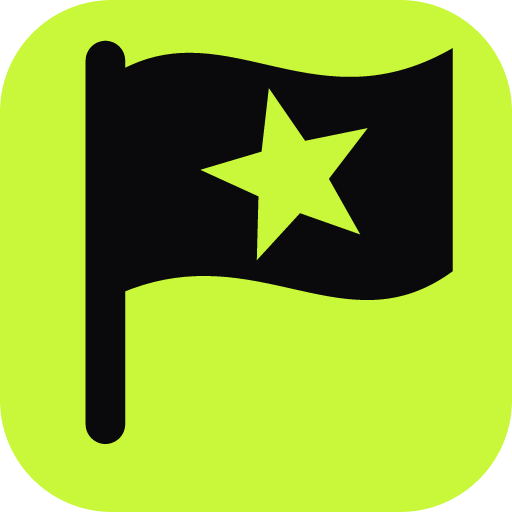
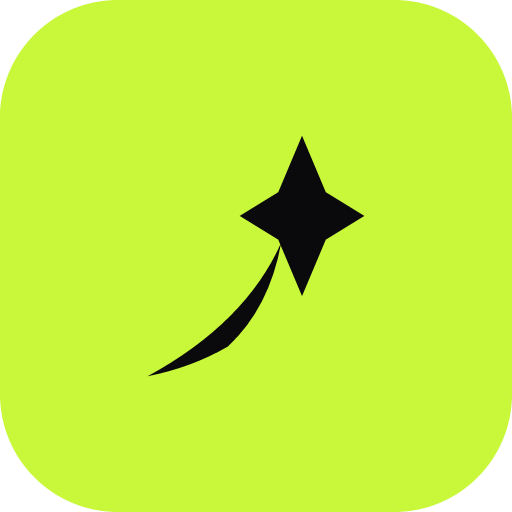
Rebrand: NOVA mark (rising star + comet) + Big Shoulders wordmark
Replace the Star Flag identity with NOVA — a four-point star lifting on a
swept comet trail: "Back the rise" as one glyph, a rising star you catch
early. Distinctive where a bare sparkle would be generic, and it holds
from a 20px favicon to the hero.

- logo.tsx: LogoMark rebuilt as trail + star paths (viewBox 2 6 96 96),
  exported MARK_TRAIL_PATH / MARK_STAR_PATH, optional fill prop. Every
  surface (header, footer, tab bar, hero, login, claim/first-dollar
  ceremonies, not-found, recap story) inherits it automatically.
- layout.tsx + globals.css: brand display face is now Big Shoulders 800
  (tall condensed editorial marquee) in place of Archivo Black; .display
  drives the wordmark and every poster heading app-wide.
- icon.svg, pwa-192/512, new apple-icon: NOVA on lime, maskable-safe pad.
- cards.ts: share-card brand mark swapped to NOVA.
- recap-video.tsx: canvas display font aligned to Big Shoulders.

Typecheck + copylint clean; 83/83 tests pass; verified live across home,
login, draft board and footer.

Claude-Session: https://claude.ai/code/session_01XAKp7zhV5GgaG2MxfZ8snX

diff --git a/apps/web/src/components/logo.tsx b/apps/web/src/components/logo.tsx
@@ -1,29 +1,29 @@
-/* The FameRace mark: the Star Flag. A race flag flying at full speed with a
-   five-point star cut out of it in negative space — fame (the star), the race
-   (the flag), and the product's core act (planting your flag on someone's
-   rise) in one solid glyph. One color, one shape, readable at 16px. */
+/* The FameRace mark: NOVA — a rising star with a comet trail. A four-point
+   star (fame, the spark) lifting on a swept trail (the rise, the momentum):
+   "Back the rise" as one glyph — a rising star you catch early. One color,
+   one gesture, readable at 16px. Authored in a 0..100 box. */
 
-export const MARK_FLAG_PATH =
-  "M13 8 C 28 0, 40 16, 59 5 L 59 36 C 44 47, 32 31, 13 39 Z " +
-  "M33.45,10.57 L38.49,17.89 L47.19,16.12 L41.79,23.17 L46.15,30.90 L37.78,27.94 " +
-  "L31.78,34.48 L32.01,25.61 L23.93,21.92 L32.44,19.39 Z";
+export const MARK_TRAIL_PATH = "M14,94 Q47,76 59,49 Q55,71 41,84 Q29,91 14,94 Z";
+export const MARK_STAR_PATH = "M66,13 L74,32 L87,40 L74,48 L66,67 L58,48 L45,40 L58,32 Z";
 
 export function LogoMark({
   className = "h-7 w-7",
   glow = false,
+  fill = "#c9f73a",
 }: {
   className?: string;
   glow?: boolean;
+  fill?: string;
 }) {
   return (
     <svg
-      viewBox="0 0 64 64"
+      viewBox="2 6 96 96"
       className={className}
       aria-hidden
       style={glow ? { filter: "drop-shadow(0 0 8px rgb(201 247 58 / 0.55))" } : undefined}
     >
-      <path fillRule="evenodd" fill="#c9f73a" d={MARK_FLAG_PATH} />
-      <rect x="8" y="4" width="5.5" height="56" rx="2.75" fill="#c9f73a" />
+      <path d={MARK_TRAIL_PATH} fill={fill} />
+      <path d={MARK_STAR_PATH} fill={fill} />
     </svg>
   );
 }

diff --git a/packages/core/src/modules/cards.ts b/packages/core/src/modules/cards.ts
@@ -63,10 +63,10 @@ function renderSvg(content: CardContent): string {
   <text x="80" y="${130 + headlineSize + 40}" font-family="Arial Narrow, Arial, sans-serif" font-size="${headlineSize}" font-weight="900" letter-spacing="1" fill="${COLORS.chalk}">${esc(headline.toUpperCase())}</text>
   ${sub ? `<text x="80" y="${130 + headlineSize + 100}" font-family="Arial, sans-serif" font-size="30" fill="${COLORS.muted}">${esc(sub)}</text>` : ""}
   ${statBlocks}
-  <!-- brand: the Star Flag -->
-  <g transform="translate(76 ${H - 96}) scale(0.62)">
-    <path fill-rule="evenodd" fill="${COLORS.lime}" d="M13 8 C 28 0, 40 16, 59 5 L 59 36 C 44 47, 32 31, 13 39 Z M33.45,10.57 L38.49,17.89 L47.19,16.12 L41.79,23.17 L46.15,30.90 L37.78,27.94 L31.78,34.48 L32.01,25.61 L23.93,21.92 L32.44,19.39 Z"/>
-    <rect x="8" y="4" width="5.5" height="56" rx="2.75" fill="${COLORS.lime}"/>
+  <!-- brand: NOVA — the rising star with a comet trail -->
+  <g transform="translate(72 ${H - 100}) scale(0.5)">
+    <path fill="${COLORS.lime}" d="M14,94 Q47,76 59,49 Q55,71 41,84 Q29,91 14,94 Z"/>
+    <path fill="${COLORS.lime}" d="M66,13 L74,32 L87,40 L74,48 L66,67 L58,48 L45,40 L58,32 Z"/>
   </g>
   <text x="128" y="${H - 56}" font-family="Arial Narrow, Arial, sans-serif" font-size="30" font-weight="900" letter-spacing="3" fill="${COLORS.chalk}">FAME<tspan fill="${COLORS.lime}">RACE</tspan></text>
   <text x="330" y="${H - 56}" font-family="Arial, sans-serif" font-size="26" fill="${accent}">— ${esc(footer ?? "Back the rise.")}</text>

diff --git a/apps/web/src/app/layout.tsx b/apps/web/src/app/layout.tsx
@@ -1,7 +1,7 @@
 import type { Metadata } from "next";
 import Link from "next/link";
 import { unstable_ViewTransition as ViewTransition } from "react";
-import { Archivo_Black, JetBrains_Mono, Space_Grotesk } from "next/font/google";
+import { Big_Shoulders, JetBrains_Mono, Space_Grotesk } from "next/font/google";
 import { copy, draftday, notify } from "@famerace/core";
 import { prisma } from "@famerace/db";
 import { currentUser } from "@/lib/session";
@@ -13,7 +13,7 @@ import { NavLink } from "@/components/nav-link";
 import { TabBar } from "@/components/tab-bar";
 import "./globals.css";
 
-const display = Archivo_Black({ weight: "400", subsets: ["latin"], variable: "--font-display-web" });
+const display = Big_Shoulders({ weight: "800", subsets: ["latin"], variable: "--font-display-web" });
 const body = Space_Grotesk({ subsets: ["latin"], variable: "--font-body-web" });
 const mono = JetBrains_Mono({ subsets: ["latin"], variable: "--font-mono-web" });
 

diff --git a/apps/web/src/app/globals.css b/apps/web/src/app/globals.css
@@ -77,10 +77,11 @@ select:focus-visible {
   scrollbar-color: var(--color-edge) transparent;
 }
 
-/* Poster-style display headings (§0B.4: wide/condensed/bold, athletic) */
+/* Poster-style display headings (§0B.4: condensed/bold, athletic marquee).
+   Big Shoulders is a tall condensed grotesque loaded at 800 — the brand face. */
 .display {
   font-family: var(--font-display);
-  font-weight: 400;
+  font-weight: 800;
   text-transform: uppercase;
   letter-spacing: 0.01em;
   line-height: 0.94;

diff --git a/apps/web/src/components/recap-video.tsx b/apps/web/src/components/recap-video.tsx
@@ -27,7 +27,7 @@ function loadImage(src: string): Promise<HTMLImageElement | null> {
 type Scene = (ctx: CanvasRenderingContext2D, t: number) => void;
 
 function display(ctx: CanvasRenderingContext2D, size: number) {
-  ctx.font = `${size}px "Archivo Black", "Arial Black", sans-serif`;
+  ctx.font = `800 ${size}px "Big Shoulders", "Arial Narrow", "Arial Black", sans-serif`;
 }
 function mono(ctx: CanvasRenderingContext2D, size: number) {
   ctx.font = `${size}px "JetBrains Mono", monospace`;
